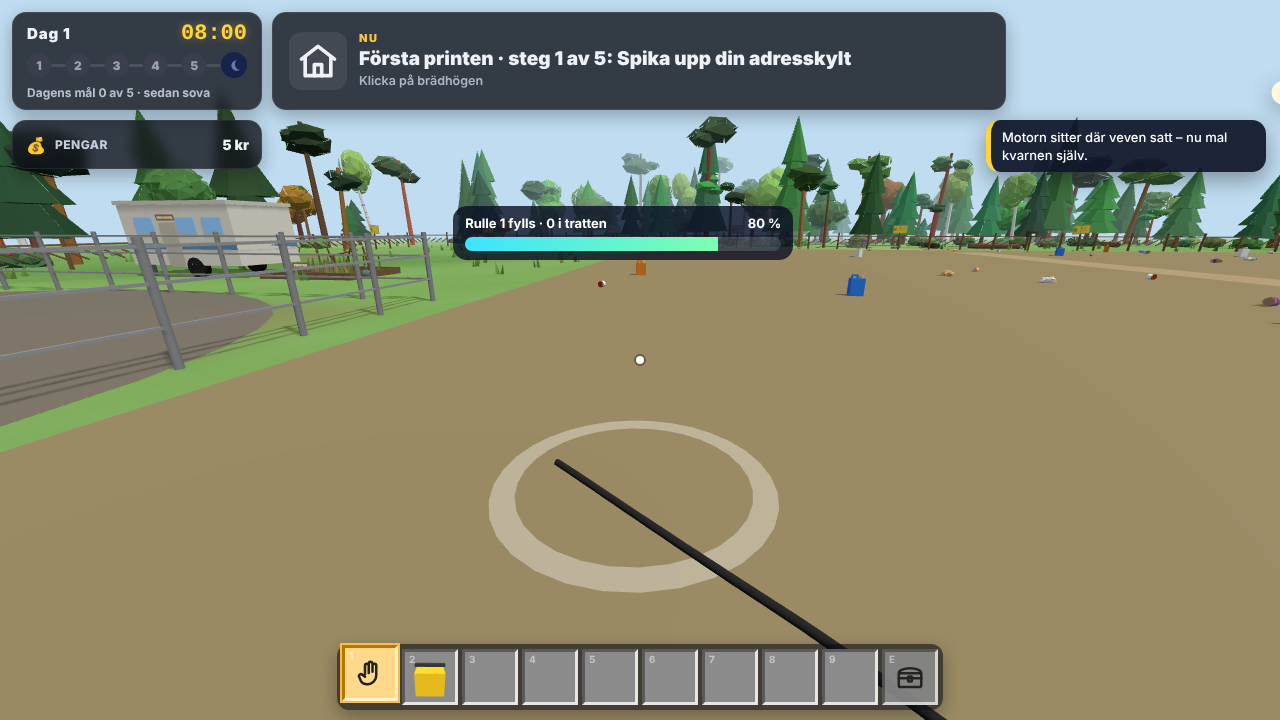
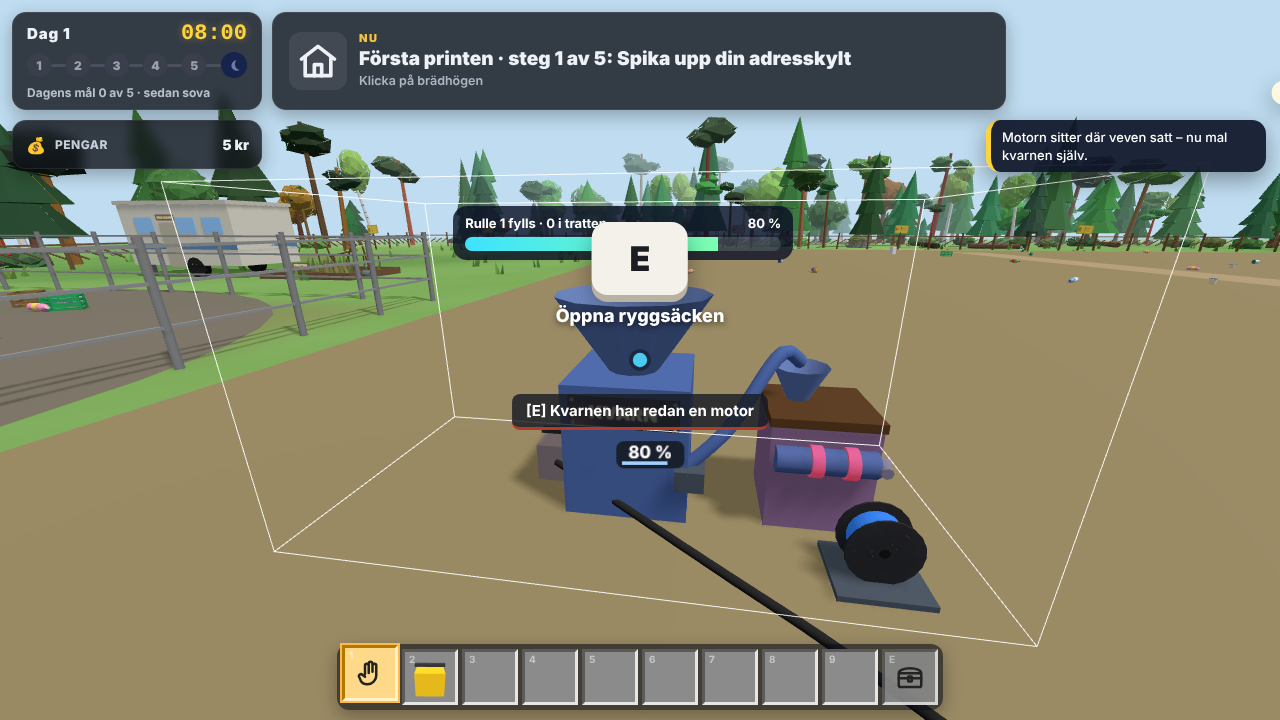
EH: procentlappen över rullen som fylls (skärmdump), EI 22: test-ei för trimsatser, EG: test-eg visar kvarnen
Claude-Session: https://claude.ai/code/session_014156cp9JxbGsW1A8ZsF5gD

diff --git a/spel/printa-hem/spel.js b/spel/printa-hem/spel.js
@@ -1476,7 +1476,7 @@ function procentLapp(sp, v) {
   g.fillStyle = 'rgba(20,24,30,.85)'; g.beginPath(); g.roundRect(4, 8, 120, 48, 14); g.fill();
   g.fillStyle = '#9fd0ff'; g.fillRect(14, 44, 100 * v / 100, 6); g.fillStyle = '#fff'; g.font = 'bold 30px system-ui,sans-serif'; g.textAlign = 'center'; g.textBaseline = 'middle'; g.fillText(v + ' %', 64, 29); t.needsUpdate = true;
 }
-const rullLapp = nyProcentLapp(); rullLapp.position.set(-0.18, 0.58, 0.62); kvarn.add(rullLapp);
+const rullLapp = nyProcentLapp(); rullLapp.position.set(-1.25, 0.52, 0.6); kvarn.add(rullLapp);   /* över rullen som fylls */
 // rullhållaren: en hylsa per plats, fyllda rullar syns – växer när man trimmar den
 const utlager = { g: null, kap: -1, rullar: [], visar: -1 };
 function ritaUtlager() {
@@ -13630,7 +13630,7 @@ function malKontrakt(st = STEG[S.steg]) {
   const text = String(stegText(st) || ''), namner = [...new Set(KAND_ORD.filter(([re]) => re.test(text)).map(([, k]) => k))];
   return { namner, kanGoras: () => (!st.las || upplast(st.las)) && namner.every((n) => kand(n)), klar: st.klar, rad: () => { try { return nastaAtgard(malRaw)?.[1] || ''; } catch (e) { return ''; } } };
 }
-window.__printahem = { vev3d: () => vev, dagMoment: (d) => dagMoment(d), SAKER, malKontrakt, rullLapp, THREE, TS, visaLapp: (id) => visaLapp(id), fotografera: (p) => fotografera(p), POLAROID, aliNejFor: (t) => aliNejFor(t), ROLF_LISTA: () => ROLF, STORY_SAKER, hoppaOver, prataNu, volym, rostLage: () => rostLage(), pratarNu: () => performance.now() < pratarTill, valjOsagd, sakModell, ikonModell, ikonLista, renderaIkon, kand, regelvakt, upplast, lasUpp, UPPLAS_FLASK, finns, startTorn, vevEl, MONTERA, TA_PA, taPaVald, monteraPa, notis, malSynligt: () => malVisasSteg === S.steg, kanalLage: () => ({ pausad, igang: ui.igang, anim: animationPagar(), scen: scenPagar(), med: !medEl2.hidden, butik: !ui.butiksOverlay.hidden, overlay: !ui.overlay.hidden, aktiv: kanalAktiv?.text?.slice(0, 40), fri: kanalFri - performance.now(), pratar: pratarTill - performance.now(), lugn: lugnTill - performance.now(), n: kanal.length }), paket, oppnaSaljlada, TRATT_MAX, giAliBonus, tangentTips, stromMax, byggBodTest: () => { Object.assign(bodVal, { ok: true, x: BOD.x, z: BOD.z, r: BOD.r }); byggBodHar(); return !!S.bod; }, aliVill, smsKortKlart, smsFram, smsBubbla, ritaDN, markeraAliIdag, dnRaknare, filTillg, dragTorn, tornPlats, tornRullar, slangNar, rullTornAktivera, flyttaSkrivarRullar, anvandSkrivare,
+window.__printahem = { ritaStart: () => ritaStart(), vev3d: () => vev, dagMoment: (d) => dagMoment(d), SAKER, malKontrakt, rullLapp, THREE, TS, visaLapp: (id) => visaLapp(id), fotografera: (p) => fotografera(p), POLAROID, aliNejFor: (t) => aliNejFor(t), ROLF_LISTA: () => ROLF, STORY_SAKER, hoppaOver, prataNu, volym, rostLage: () => rostLage(), pratarNu: () => performance.now() < pratarTill, valjOsagd, sakModell, ikonModell, ikonLista, renderaIkon, kand, regelvakt, upplast, lasUpp, UPPLAS_FLASK, finns, startTorn, vevEl, MONTERA, TA_PA, taPaVald, monteraPa, notis, malSynligt: () => malVisasSteg === S.steg, kanalLage: () => ({ pausad, igang: ui.igang, anim: animationPagar(), scen: scenPagar(), med: !medEl2.hidden, butik: !ui.butiksOverlay.hidden, overlay: !ui.overlay.hidden, aktiv: kanalAktiv?.text?.slice(0, 40), fri: kanalFri - performance.now(), pratar: pratarTill - performance.now(), lugn: lugnTill - performance.now(), n: kanal.length }), paket, oppnaSaljlada, TRATT_MAX, giAliBonus, tangentTips, stromMax, byggBodTest: () => { Object.assign(bodVal, { ok: true, x: BOD.x, z: BOD.z, r: BOD.r }); byggBodHar(); return !!S.bod; }, aliVill, smsKortKlart, smsFram, smsBubbla, ritaDN, markeraAliIdag, dnRaknare, filTillg, dragTorn, tornPlats, tornRullar, slangNar, rullTornAktivera, flyttaSkrivarRullar, anvandSkrivare,
   framsteg, skrivarText, framstegKvarn,
   dbgKanal: () => ({ nu: performance.now(), pratarTill, pratarVem, kanalFri, aktiv: kanalAktiv && kanalAktiv.text, n: kanal.length, pausad, igang: ui.igang, anim: animationPagar(), scen: scenPagar(), med: medEl2.hidden, butik: ui.butiksOverlay.hidden, ov: ui.overlay.hidden }),
   textLogg: () => TEXTLOGG.slice(), pratar: () => !!kanalAktiv || kanal.length > 0 || performance.now() < pratarTill || performance.now() < kanalFri, kanal: () => ({ aktiv: kanalAktiv && { vem: kanalAktiv.vem, text: kanalAktiv.text, vikt: kanalAktiv.vikt }, ko: kanal.map((x) => ({ vem: x.vem, text: x.text, vikt: x.vikt })) }), rostMatning, renderaIkon, ikonLista, handelseLogg, ritningInfo: () => { const c = ritning ? new THREE.Box3().setFromObject(ritning).getCenter(new THREE.Vector3()) : null; return { nyckel: ritningNyckel, linjer: ritning?.children.length || 0, printar: printarFram.size, mitt: c && [+c.x.toFixed(2), +c.y.toFixed(2), +c.z.toFixed(2)] }; }, prata, elHelFig: () => [...(elHel || [])], avkodat, forladdaRepliker, introLager, trampa: (sek) => { trampTest = sek; }, veva: (sek) => { vevTest = sek; }, siktaVagg: (v) => { vaggTest = v; }, vaggarKlara: () => vaggarKlara(), tapetKlara: () => tapetKlara(), nastaInred, prisNu, helaRullar, extruderFull, gardMal, kanLyfta, karraFull, harGava, valdKarra, BARA_SKRAP, SKRAP_RACKVIDD, utlagerKap, startPlats, sattFonster: () => { const n = fonsterLista().length; S.hem = { ...(S.hem || {}), fonster: [...fonsterLista(), { vagg: Object.keys(VAGGAR).filter((k) => !/dorr|fram/i.test(k))[n % 3] || Object.keys(VAGGAR)[0], u: 0.5 }] }; ritaFonster(); uppdateraSkjul(); sparaSnart(); }, medKo, medEl2, uppdatera, stegText: () => { const st = STEG[S.steg]; return st ? (typeof st.text === 'function' ? st.text() : st.text) : ''; }, valdTyp: () => valdTyp(), ritaStart, vagCykel, startYta, cykelStall, byggOmCykeln, SI, stegId, planNasta, fabriksplanSvg, kopDirekt, GAMMALT_SPEL, SPAR_ID, helen: helenTest, helenFig, helenBettan: bettan, helenSkjul, helenRuta, helenRutaYta, pratHelen, geHelen, helenNatt, helenMorgon, helenVillkor, HELEN, HELEN_RADER, introBild, nastaPlats, linjeSkrivare, linjeSpolar, ritaPlan, gardPlanBild, PLAN, rostKoll, invDragInfo: () => invDrag, tidTest: (m) => { klockTest = m; linjeTid = 0; }, invAvsluta, spikaAnim, hammare, efterspel: efterspelTest, efterspelKvar, jul: julTest, julScen, julKrans, julRader, lager: lagerTest, tippStadat, lagerFynd, grav, h78, goran: goranTest, polaroid: polaroidTest, kollaN, nLappLast, N_BEST, nLada, tradgard, ritaTradgard, kollaTradgard, rolfVagn, goranFigur: goran, gor, kollaGoran, goranSittplats, kollaPolaroid, ritaPolaroider, oppnaPolaroider, polaroidVagg, POLAROID, byggSkylt, kollaSkylt, skyltVersion, rostManusDetalj: () => { rostManus(); return rostManus.detalj; }, avbrytJobb, ROLF_TACK, elKlipp: (v, t) => elKlipp(v, t), simulera: (sek, steg = 0.1) => { for (let t = 0; t < sek; t += steg) uppdatera(steg); }, oppnaInv, rymsAlla, invKlick, invFlytta, naraKista, kistPos, matDag, jobbNu, rolfFyndPaket, aliHamtarLadan, skickaData, saljladaAktivera, startaTidtipp, nastaKop, rolfMorgonTack, rolfBrevLast, antalUt, startaDirekt, petgKvarn, petgAktivera, petgText, uppdateraPetg, filTyp, solEffekt, stromBehov, saljMarkerad, oppnaMarknad, oppnaPrintMeny, aliKopLista, stegKonkret, aktivGava, harRecept, harPlacerat, ritaNasta, malRawGet: () => malRaw, ikonHtml, skapaRiktig, VAROR, MASKINER, saljPris, aliSaljLista, kollaSamtal, visaBengt, kajsa, aliVink, aliFig: ali, stegBild, humorAv, varldsBubbla, skjulYta, bodGrupp, vridTips, flyttarBod: () => flyttarBod, dagbokLas: () => dagbokLas, pausad: () => pausad, bradhog, sangSpoke, taltSang: tältSäng, rullePlats, rulleMax, nastaAtgard, STEG, sovDags, kvallKlar, maskinStopp, ritaStopp, spikaSkylt, aliRopar, tittaMot, adressSkylt, introMusik, storHus, husHinder, startaResa, kollaResa, resaSteg, FYND, tillgang, arstid, varme, kollaKyla, uppdateraArstid, folkbokfor, kollaPolett, kanFolkbokfora, rolfHus, MARK_TOMTER, tungtFilament, andraRespekt, nivaUpplast, rolfDialekt, geRolfNummer, vantarPaNummer, kollaMarkTips, ruttnaOverNatten, stallIKyl, kylAntal, kompostera, kopMark, oppnaMark, uppdateraMark, paMark, markTavla, oppnaBokmarken, sparaDagBokmarke, lasBokmarken, miljo, placera, stallBurkar, uppdateraPappa, startaPappaBesok, pappaBesok, FIGURER, malPil, spoke, rektKrock, SKJUL, laggSkrap, paTippen, tippaLast, uppdateraAuto, auto, monteraAuto, rostKlipp, rostNyckel, rostManus, familjSms, oppnaJobbVal, hamtaBeloning, oppnaDagbok, oppnaInkorg, kapitel2Slut, TRIM, bodKlar, kapitelSlut, oppnaSparplatser, sparaPlats, lasPlats, HEM_DELAR, uppdateraSkjul, visaIntro, gardSkrap, laggTill, byt, taBortInv, antalInv, kista, extruder, arende, rolfGubbe, sms, ROLF, flak, bom, postLucka, postlada, webbOrdrar, oppnaDator, BESOK, besok, startaBesok, ata, MAT_VARDE, printLinje, migreraDK, kolfKvarn, kolfAktivera, uppdateraKolf, nastaGamer, trimNiva, plockaUppPlacerad, plockaSkrap, karraRing, foremal, variantFor, valjTyp, husvagnKlick, gastScen, gastDelKlar, husvagn: () => husvagnG, rolfBesok, sackRulle, karraKlick, karraMal, pappaGubbe, grind, ALI, bil, sopbil, sov, TIPP, niva, magnetStrale, oppnaForrad, laggIForrad, vevYta, rulle, kamera, spelare, interaktor, hand, S, spar, skrivare, placerade, skrapLista, ui, kvarn, cykel, marknad, talt, trivsel, startaJobb, uppdateraSkrivare, stallNer };

diff --git a/spel/printa-hem/index.html b/spel/printa-hem/index.html
@@ -10,28 +10,28 @@
 {
  "imports": {
   "three": "https://cdn.jsdelivr.net/npm/three@0.170.0/build/three.module.js",
-  "./balans.js": "./balans.js?v=75e7415a6d",
-  "./brand.js": "./brand.js?v=75e7415a6d",
-  "./gardplan.js": "./gardplan.js?v=75e7415a6d",
-  "./hud.js": "./hud.js?v=75e7415a6d",
-  "./intro-bilder.js": "./intro-bilder.js?v=75e7415a6d",
-  "./miljo.js": "./miljo.js?v=75e7415a6d",
-  "./regelvakt.js": "./regelvakt.js?v=75e7415a6d",
-  "./spel.js": "./spel.js?v=75e7415a6d",
-  "./ui-kit.js": "./ui-kit.js?v=75e7415a6d",
-  "../../delat/fp/index.js": "../../delat/fp/index.js?v=75e7415a6d",
-  "../../delat/fp/interaktion.js": "../../delat/fp/interaktion.js?v=75e7415a6d",
-  "../../delat/fp/magi.js": "../../delat/fp/magi.js?v=75e7415a6d",
-  "../../delat/fp/smuts.js": "../../delat/fp/smuts.js?v=75e7415a6d",
-  "../../delat/fp/spelare.js": "../../delat/fp/spelare.js?v=75e7415a6d",
-  "../../delat/fp/system.js": "../../delat/fp/system.js?v=75e7415a6d",
-  "../../delat/fp/ui.js": "../../delat/fp/ui.js?v=75e7415a6d",
-  "../../delat/motor.js": "../../delat/motor.js?v=75e7415a6d"
+  "./balans.js": "./balans.js?v=d676dae4c5",
+  "./brand.js": "./brand.js?v=d676dae4c5",
+  "./gardplan.js": "./gardplan.js?v=d676dae4c5",
+  "./hud.js": "./hud.js?v=d676dae4c5",
+  "./intro-bilder.js": "./intro-bilder.js?v=d676dae4c5",
+  "./miljo.js": "./miljo.js?v=d676dae4c5",
+  "./regelvakt.js": "./regelvakt.js?v=d676dae4c5",
+  "./spel.js": "./spel.js?v=d676dae4c5",
+  "./ui-kit.js": "./ui-kit.js?v=d676dae4c5",
+  "../../delat/fp/index.js": "../../delat/fp/index.js?v=d676dae4c5",
+  "../../delat/fp/interaktion.js": "../../delat/fp/interaktion.js?v=d676dae4c5",
+  "../../delat/fp/magi.js": "../../delat/fp/magi.js?v=d676dae4c5",
+  "../../delat/fp/smuts.js": "../../delat/fp/smuts.js?v=d676dae4c5",
+  "../../delat/fp/spelare.js": "../../delat/fp/spelare.js?v=d676dae4c5",
+  "../../delat/fp/system.js": "../../delat/fp/system.js?v=d676dae4c5",
+  "../../delat/fp/ui.js": "../../delat/fp/ui.js?v=d676dae4c5",
+  "../../delat/motor.js": "../../delat/motor.js?v=d676dae4c5"
  }
 }
   </script>
 </head>
 <body>
-  <script type="module" src="spel.js?v=75e7415a6d"></script>
+  <script type="module" src="spel.js?v=d676dae4c5"></script>
 </body>
 </html>
